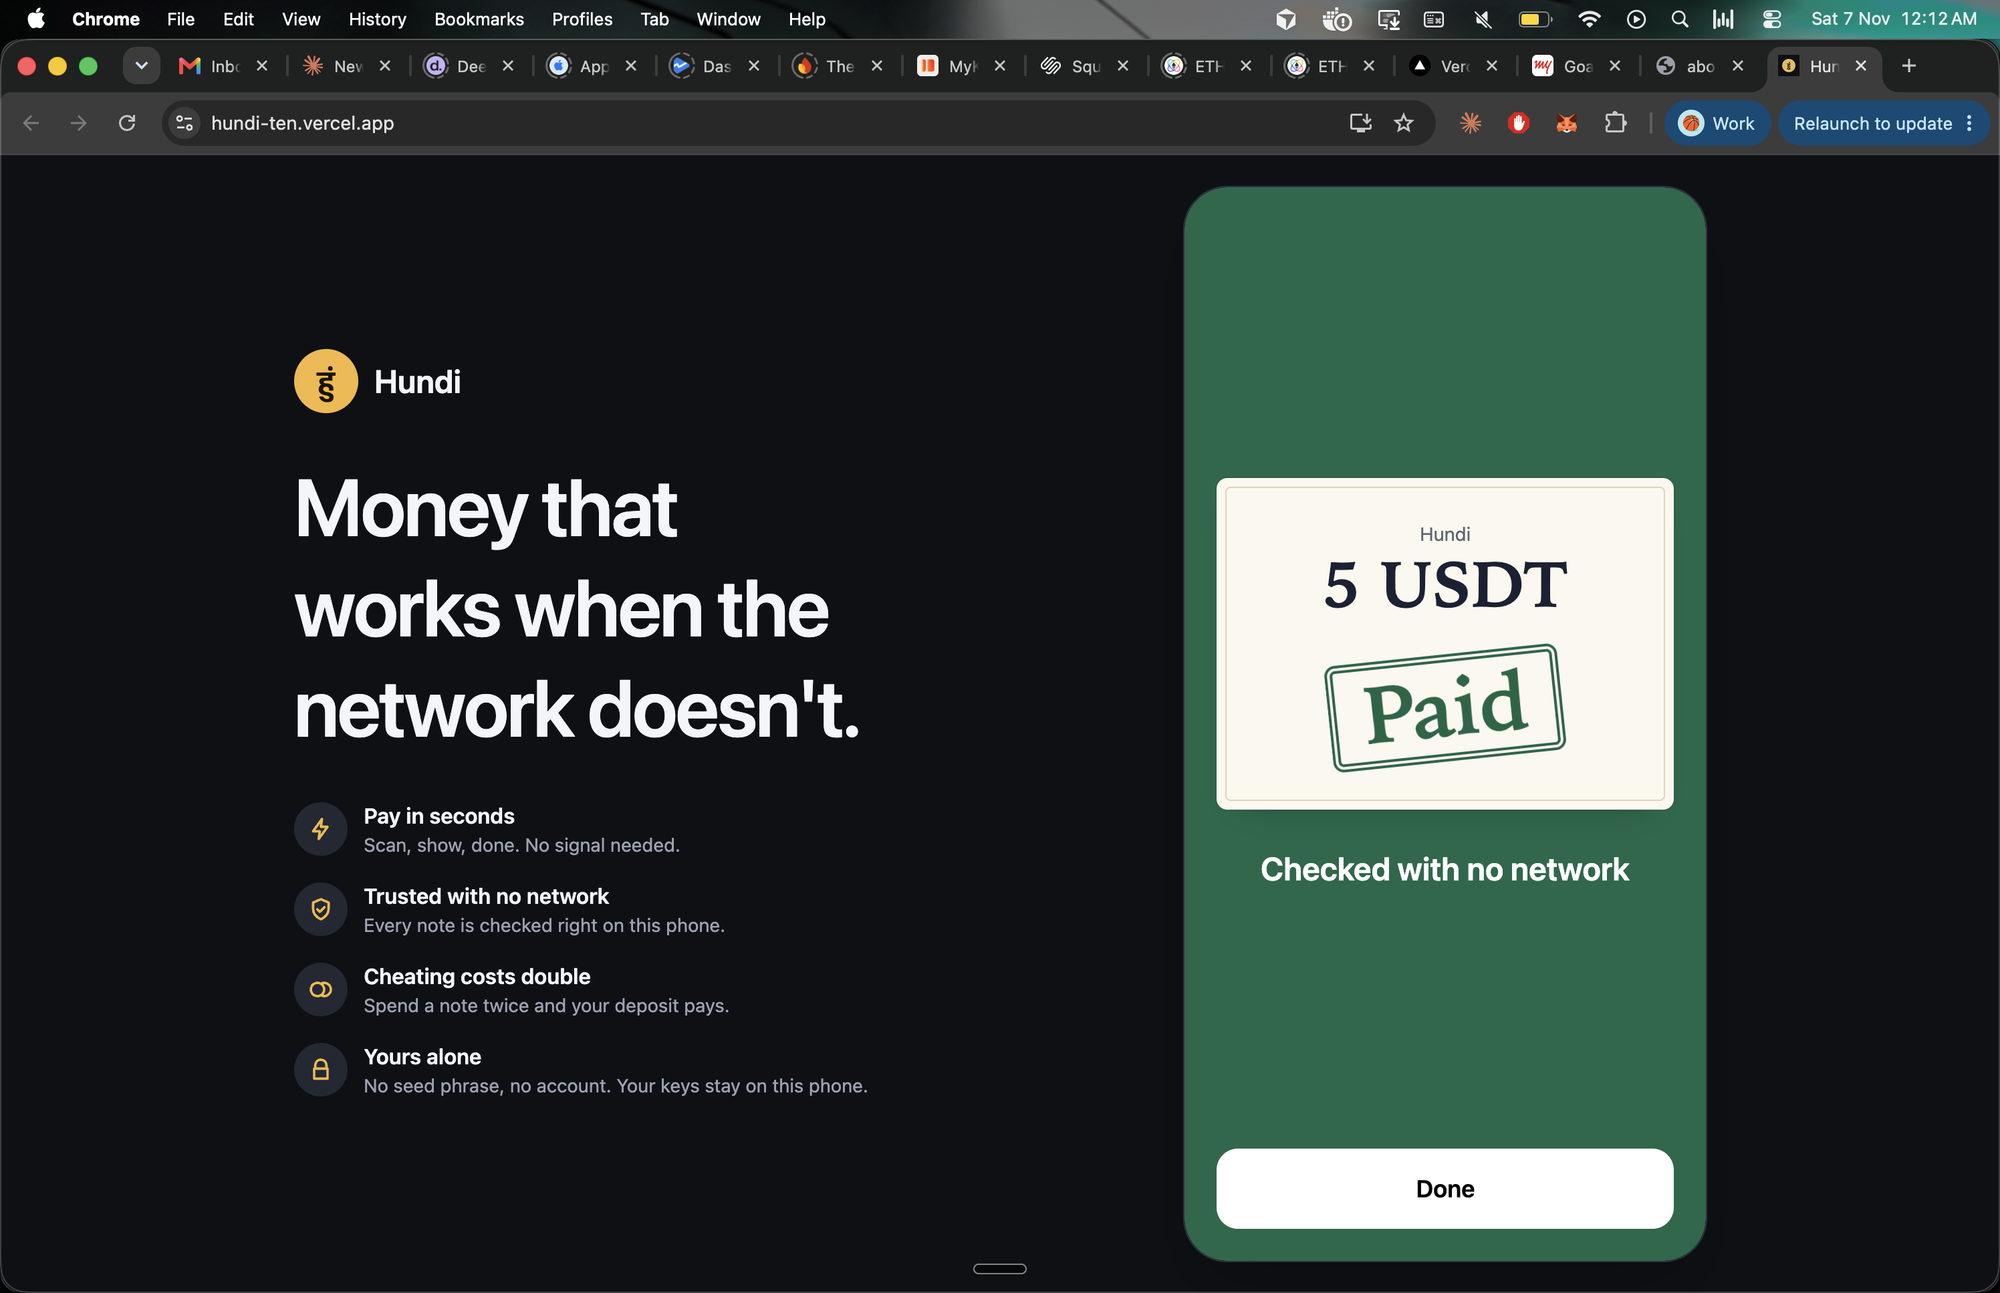
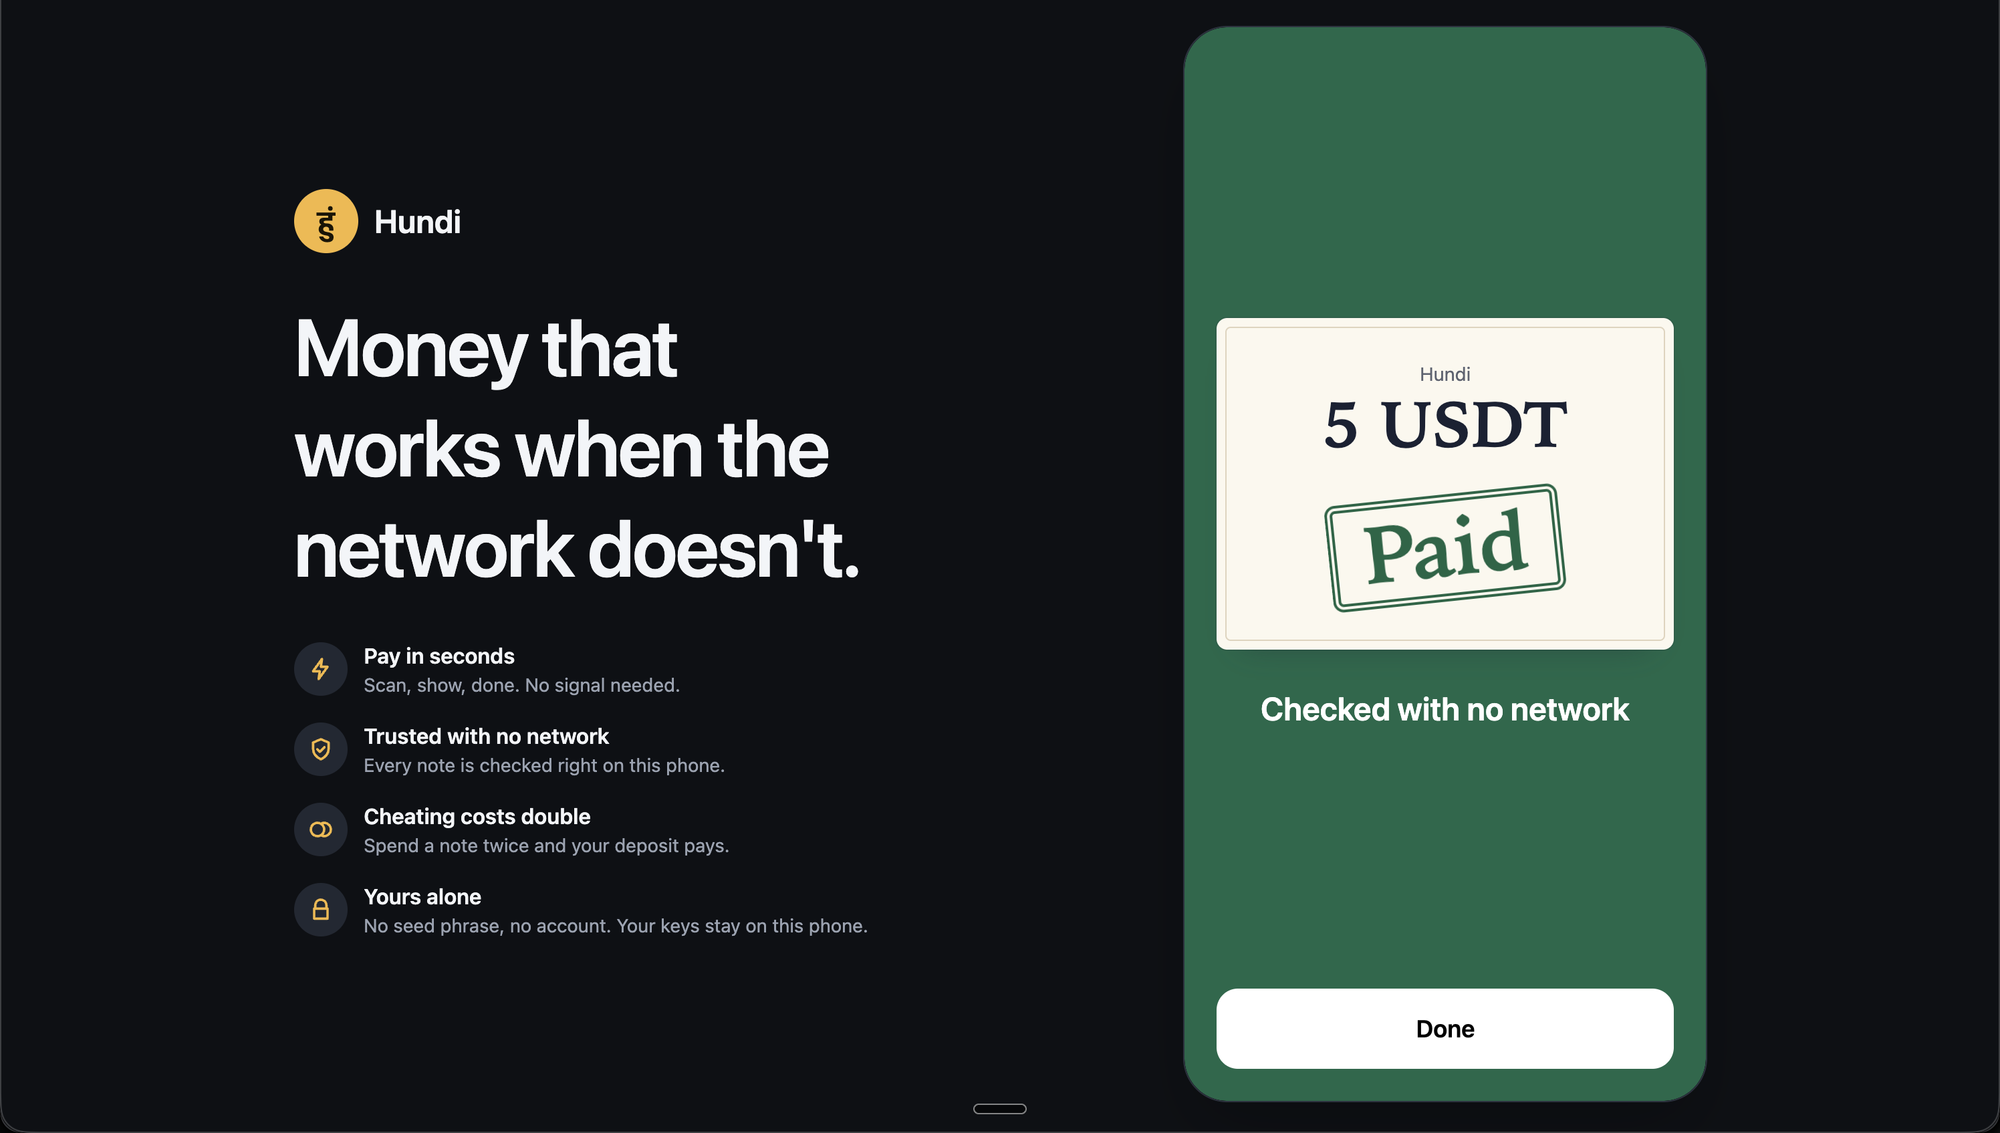
docs: crop browser details from evidence and tighten a test claim

diff --git a/docs/AI-USE.md b/docs/AI-USE.md
@@ -19,7 +19,7 @@ I built Hundi at ETHGlobal Mumbai with Claude Code as my coding agent. I set the
 | Story test | The whole demo runs in one test, including a double-spend claim |
 | Failing test first | Hashes and bug fixes start from a failure, as in `f0c9b9f` then `93360ba` |
 | Real-chain checks | A sync bug missed on a fork (0 of 12) appeared on the testnet (2 of 10) |
-| Scripted app runs | Every screen is driven in Chrome and iOS Safari |
+| Scripted app runs | The main payment flows are driven in Chrome and iOS Safari |
 | Independent review | A separate agent reviews changes it didn't write |
 | Real devices | An [iPhone in airplane mode paid a laptop by camera](https://explorer.testnet.whitechain.io/tx/0x13d45e60b0a2446c156cdda4e6e834cc39cd19bae3df4b873cd366d3aeaee589) |
 
